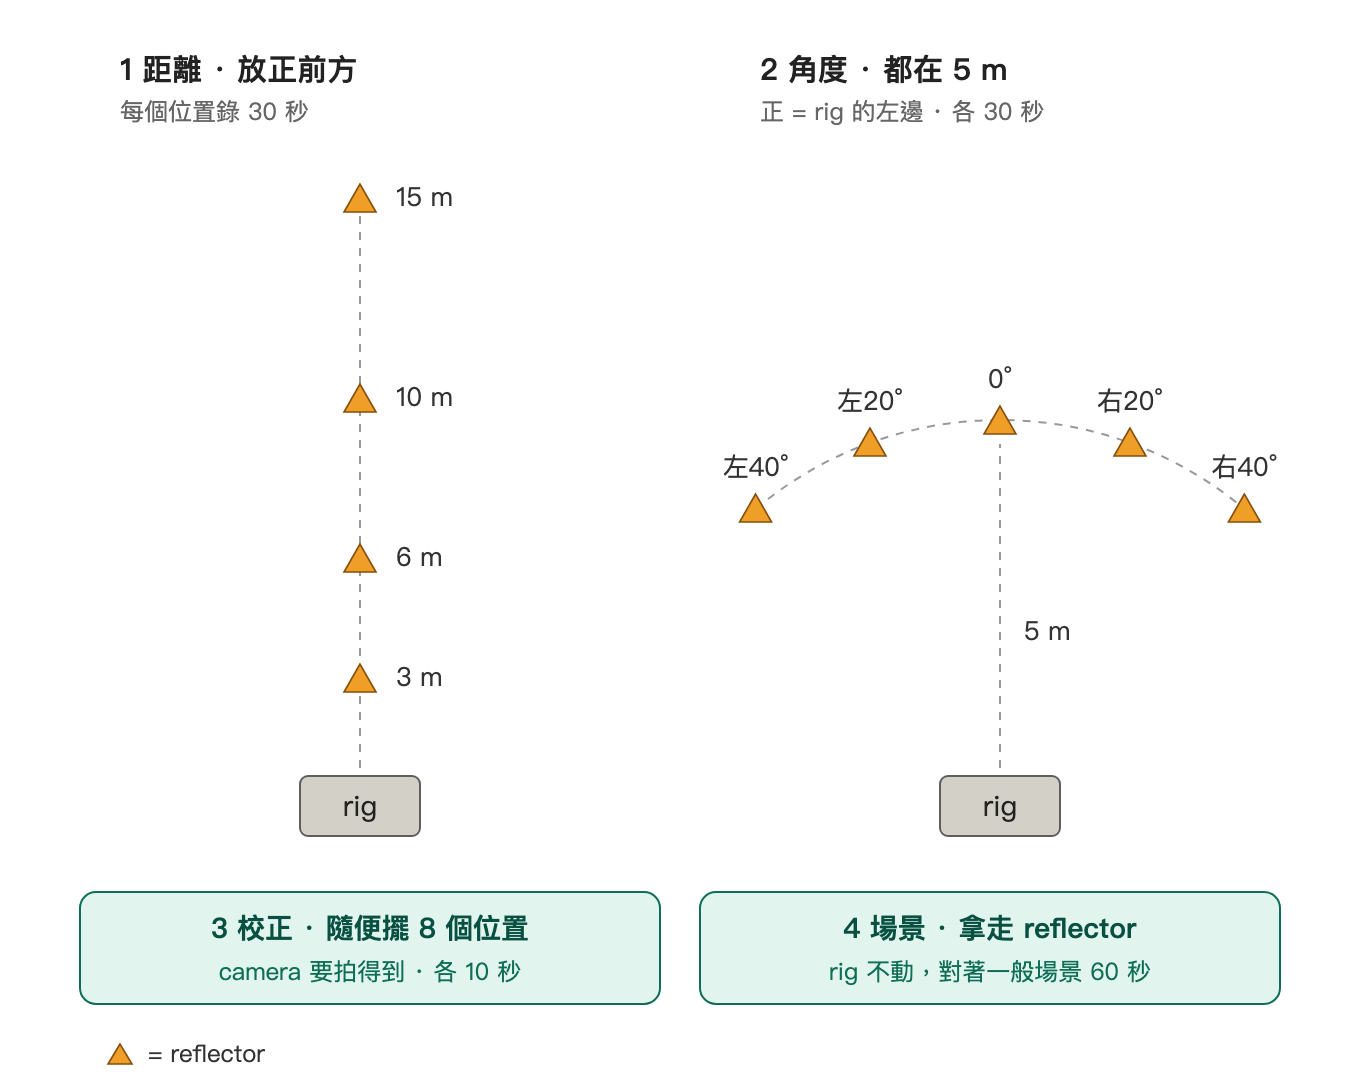
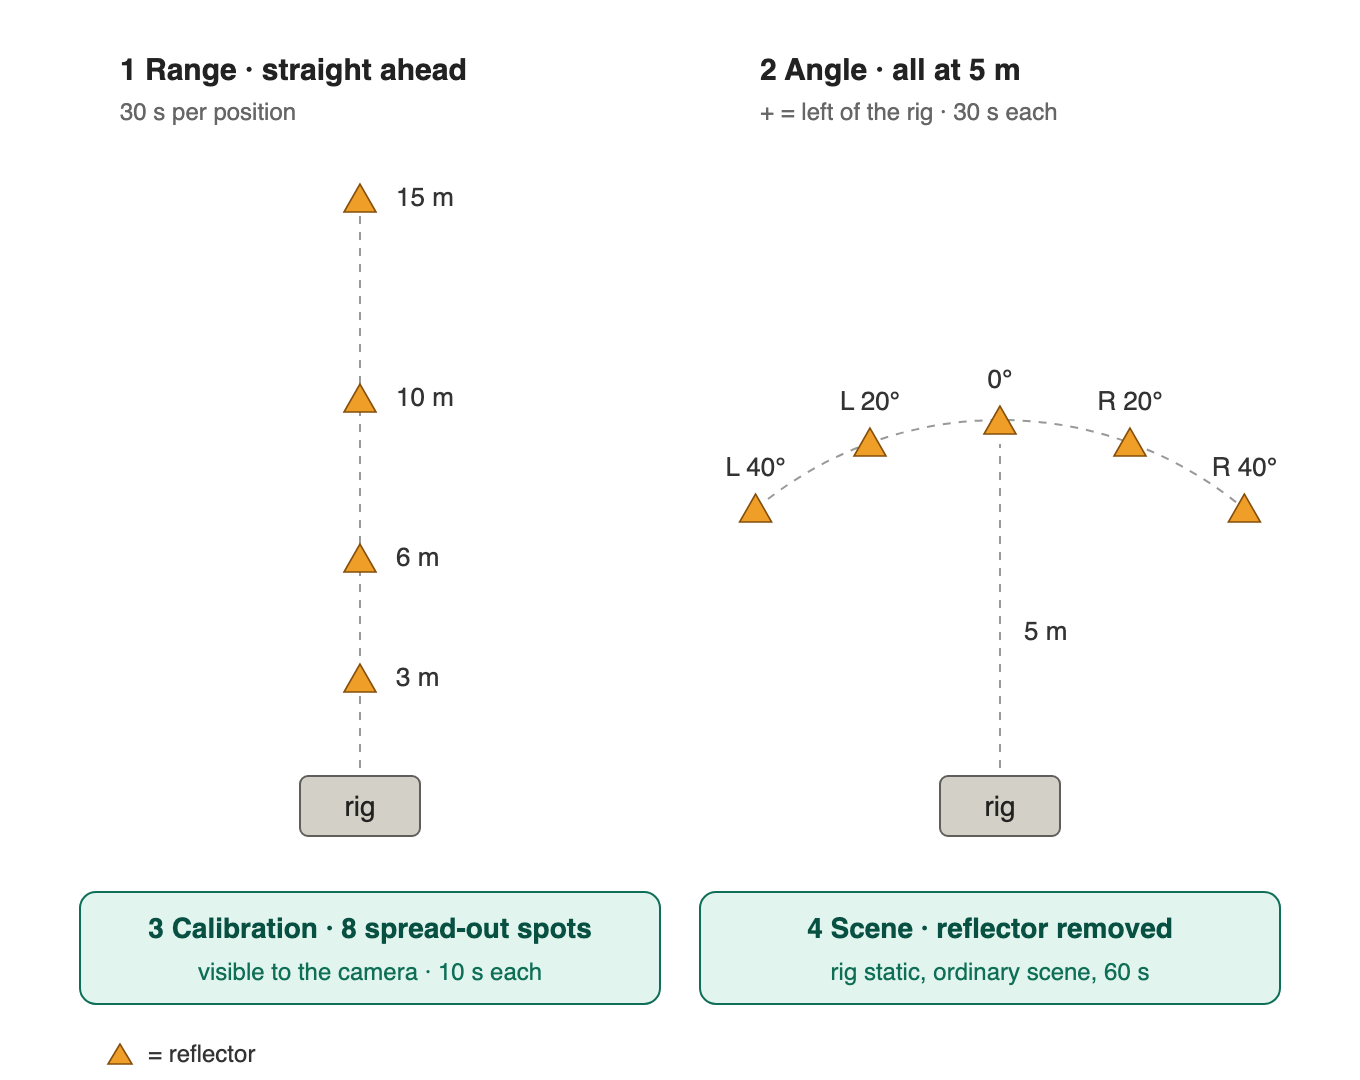
Remove old rig-day notes, English-only docs and figures
Drop RIGDAY.md, NEXT_RIGDAY.md and the 10/21 agenda (superseded, written in
Chinese), translate AGENDA_session2.md and the two setup diagrams to English,
and delete the duplicate .svg.png renders.

diff --git a/AGENDA_session2.md b/AGENDA_session2.md
@@ -1,44 +1,57 @@
-# Session 2 agenda · 校園（capstone 為主）
+# Session 2 agenda · campus (capstone data first)
 
-約 3 小時。CP 的 M1 已經在 10/21 做完，這次不補拍；時間全部給 capstone 的「有人、有車」資料。
-每一段都要有人或車入鏡，capstone 拿來測 detection。
+About 3 hours. The CP range/angle tests (M1) were done on 2026-10-21 and are not repeated.
+Every segment should have people or cars in view; the capstone uses them to test detection.
 
-## 出門前
-- [ ] 電池充飽、背包（Tianshu 說充電器可能在 Deva 的 lab，先確認）
-- [ ] 問 Tianshu：要不要先換 128 線 LiDAR（他希望換；capstone 跟 GRT 的設定一致）
-- [ ] iPhone 充飽（要當 Mac 的網路）、USB 傳輸線
-- [ ] 想好路線：GHC 一圈的起點、原地自轉的空地、2–3 個有人有車的地點
+## Before leaving
+- [ ] Battery charged, backpack (Tianshu's charger may still be in Deva's lab)
+- [ ] LiDAR: the rig now carries the OS-0-128 (swapped 2026-10-29); the NUC config already has
+      `beams: 128` and `addr: 169.254.149.190`
+- [ ] iPhone charged (it is the Mac's internet) and a USB cable
+- [ ] Route: which objects to orbit, an open spot for the spin, 2-3 places with people and cars
 
-## +0:00 開機（20 min）
-1. Mac：iPhone 熱點用線接 Mac → 網路服務順序 iPhone USB 在 Wi‑Fi 上面 → Wi‑Fi 連 red-rover
-2. Claude 開 ssh 共用連線（你打一次 rover 密碼）
-3. NUC 上：`cd ~/red-rover/collect && export ROVER_CFG=config/radarhd-o-polin.yaml && sudo -E make config && make`
-   - 換了 128 線：先把 config 的 `beams: 64` 改成 `beams: 128`
-4. 錄製網頁出現 lidar Initialized 後**再等 20 秒**，錄 30 s dry run，Claude 檢查四個 sensor 都有資料
+## +0:00 Start-up (20 min)
+1. Mac: iPhone hotspot over USB; network service order with iPhone USB above Wi-Fi; Wi-Fi on `red-rover`
+2. Open the shared ssh connection (type the rover password once)
+3. NUC: `cd ~/red-rover/collect && export ROVER_CFG=config/radarhd-o-polin.yaml && sudo -E make config && make`
+4. When the web page shows `lidar Initialized`, wait another 30 s, then record a 30 s dry run and
+   check that all four sensors wrote data (LiDAR shape `[128, 2048]`)
 
-## +0:20 拍攝（每段 ≤ 5 分鐘，約 1 GB/分）
-| 順序 | 拍什麼 | 怎麼拍 | 段數 |
+## +0:20 Shooting (each segment <= 5 min, about 1 GB/min)
+| # | What | How | Segments |
 |---|---|---|---|
-| 1 | GHC 繞一圈 360° | 手持，camera 朝建築，慢慢走（< 1.79 m/s，正常散步） | 3–4 段 |
-| 2 | 原地自轉 360° | 空地中間站定，約 1 分鐘轉一圈 | 2–3 段 |
-| 3 | 校園有人有車 | 路口、停車場出入口、人多的走道；rig 固定或手持都可以 | 4–6 段，各 2–3 分 |
-| 4 | 有時間：X4 鬼點 | rig 平行側牆離 1.5 m（見 deck 的 x4） | 3 段 |
-| 5 | 有時間：天空（X10） | rig 朝空曠天空斜約 45°，60 s，前方沒有任何東西 | 1 段 |
+| 1 | 360° orbit of a parked car | radius 4-5 m, camera on the car, 0.5-1 m/s, start and stop at a marked spot | 1-2 |
+| 2 | 360° orbit of a small metal object (trash can, hydrant, bike rack) | radius 2-3 m | 1 |
+| 3 | 360° orbit of a tree or sculpture (non-metal) | radius 3-5 m | 1 |
+| 4 | One stretch of a GHC wall or corner | walk along at 5-10 m | 1 |
+| 5 | Spin in place | stand still in an open spot, one turn per ~1 min | 2-3 |
+| 6 | Campus scenes with people and cars | crossings, parking-lot entrances, busy walkways; rig static or handheld | 4-6 × 2-3 min |
+| 7 | If time: X4 multipath | rig parallel to a side wall at 1.5 m | 3 × 30 s |
+| 8 | If time: open sky (X10) | rig tilted ~45° at empty sky, 60 s | 1 |
 
-- 走路的段落用**手機開錄製網頁**（http://192.168.8.249:5000）按 START/STOP；rig 固定的段落可以讓 Claude 用 `./shoot.sh <名稱> <秒數>` 錄
-- 每段結束記一行：時間 + 拍什麼（Claude 用 shoot.sh 時會自動記進 notes/shots.csv）
+- Walking segments: START/STOP from the phone at `http://192.168.8.249:5000`, save location = the SSD
+- Static segments: `./shoot.sh <label> <seconds>` (logs to `notes/shots.csv`)
+- After each walking segment, note the time and what was shot
 
-## 收工（20 min）
-- Claude 關 NUC（你打一次 rover 密碼）→ 白燈熄 → 拔 SSD、拔電、關電池、蓋 radar 保護蓋
-- SSD 插 Mac → macOS 跳「not readable」按 **Ignore**（不要按 Initialize）→ Claude 用 anylinuxfs 唯讀掛載、只拷 `2026-*` 資料夾、跑 validate
+Why orbits of different objects instead of the whole building: the radar reaches ~20 m and large flat
+walls act as mirrors, so a whole-building loop shows scattered corners; objects of different size and
+material (car, small metal, tree, wall) give a clean comparison against the 128-beam LiDAR.
 
-## 要知道的
-- 車速超過 ±1.79 m/s（約 4 mph）速度會繞回變錯，距離和角度還是對的；capstone 要正確車速就要換 chirp，問 Tianshu
-- camera 會拍到路人臉和車牌；要公開前用 red-rover 的 `anonymize` 處理
+## Shut-down (20 min)
+- Stop any recording, then `sync && sudo shutdown now` on the NUC; wait for the white light to go off
+- Unplug the SSD, power, battery; put the radar cover back
+- On the Mac the SSD shows "not readable": press **Ignore** (never Initialize); mount read-only with
+  `sudo anylinuxfs mount /dev/diskNs1 -o ro`, copy only the `2026-*` folders, run `./validate.sh`
+
+## Good to know
+- Speeds beyond ±1.79 m/s (about 4 mph) wrap around in Doppler; range and angle stay correct
+- Camera frames show faces and plates: anonymize (red-rover `anonymize`) before publishing
 
 ---
 
-# Session 3 · 離學校遠一點（約 3 小時）
-- 跟 GRT 訓練資料不同的地方（Oakland 商業街、Squirrel Hill、Schenley Park、市區），有人有車的路口與人行道，避免 capstone overfit 學校附近
-- 剛好下雨或起霧就拍 rain / fog（capstone validation）；mud 和水用塑膠膜貼在 radome 前，不直接弄濕借來的 radome，先問 Tianshu
-- 開機、收工流程同 Session 2
+# Session 3 · off campus (about 3 h)
+- Places unlike the GRT training data (Oakland streets, Squirrel Hill, Schenley Park, downtown),
+  crossings and sidewalks with people and cars, so the capstone can be tested for overfitting
+- If it rains or is foggy that day, record rain / fog for capstone validation; mud and water only on a
+  plastic film in front of the radome (ask Tianshu first)
+- Start-up and shut-down as in Session 2

diff --git a/README.md b/README.md
@@ -10,7 +10,7 @@ Author: Po-Lin Chen. Contributor: Yining (extensions, 3D reconstruction; acknowl
 | Path | What |
 |---|---|
 | `shoot.sh`, `sync.sh`, `validate.sh`, `check_valid.py` | rig-day recording and data checks |
-| `RIGDAY.md`, `AGENDA_*.md` | rig-day procedures |
+| `AGENDA_session2.md` | rig-day procedure and shot list for the next sessions |
 | `notes/shots.csv` | which trace is which shot |
 | `notes/fig/` | figures used in the Notebook deck |
 | `src/` | main pipeline (Po-Lin) |
